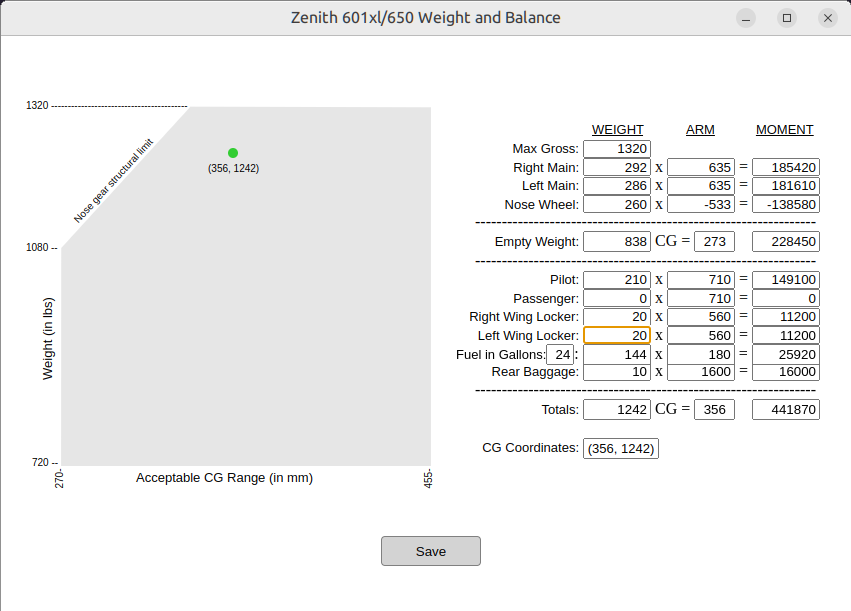
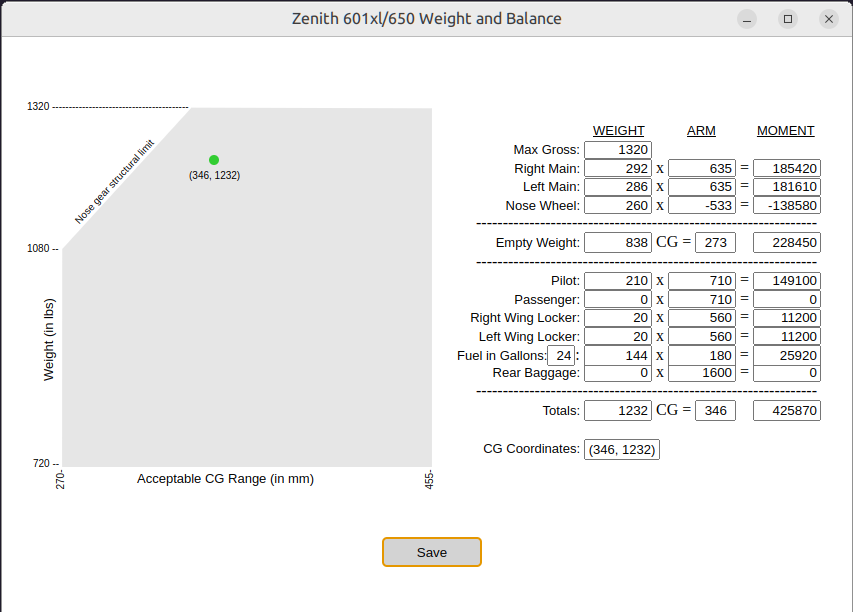
fixed calcWB on fuel gallons input

diff --git a/index.html b/index.html
@@ -96,7 +96,7 @@
       <input type="text" class="weight" id="lwl" value="0" oninput="calcWB(this)"> x <input type="text" class="weight" id="lwla" value="0" oninput="calcWB()"> = <input type="text" class="weight" id="lwlm" value="0" readonly="true">
       <br />
       <div class="fuel">
-        <label for="fig" class="fuelabel">Fuel in Gallons:</label><input type="text" class="fuelgals" id="fig" value="0" oninput="calcFuel()">: <input type="text" class="fuelwt" id="fwt" value="0" readonly="true"> x <input type="text" class="fuelarm" id="fua" value="0" oninput="calcWB()"> = <input type="text" class="fuelmoment" id="fum" value="0" readonly="true">
+        <label for="fig" class="fuelabel">Fuel in Gallons:</label><input type="text" class="fuelgals" id="fig" value="0" oninput="calcWB()">: <input type="text" class="fuelwt" id="fwt" value="0" readonly="true"> x <input type="text" class="fuelarm" id="fua" value="0" oninput="calcWB()"> = <input type="text" class="fuelmoment" id="fum" value="0" readonly="true">
       </div>
       <br />
       <label for="rb" class="weightLabel">Rear Baggage:</label>
